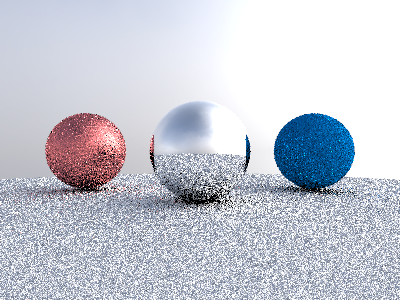
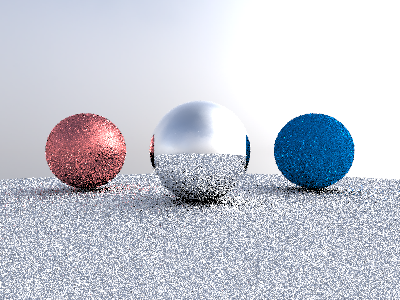
Added more data and corrected code

diff --git a/render.py b/render.py
@@ -58,9 +58,6 @@ def path_trace_row(frame, progress, start_y, step, width, height, scene, paths, 
             # start tracing rays
             color = color + trace(scene, sampler, cam_ray, paths[path_index])
             frame.accumulation[y * width + x] = frame.accumulation[y * width + x] + color
-            #color = linear_to_srgb(frame.accumulation[y * width + x] / (sample_idx + 1))
-            # set image
-            #frame.display_img[y][x] = np.array([color[0], color[1], color[2]])
         progress[y] = 1
         print("Progress: %.2f%% [Sample: %i/%i]" % ((np.clip((np.sum(progress) / height), 0.0, 1.0) * 100), (sample_idx + 1), samples))
 
@@ -70,67 +67,44 @@ def threaded_path_trace(frame, sky, width, height, scene, samples, threads):
     paths = [None] * width * height
     # record start time
     start = time.perf_counter()
-    # figure for displaying image during render
-    '''
-    plt.ion()
-    fig, ax = plt.subplots()
-    '''
     for sample_idx in range(0, samples, 1):
         progress = [0] * height
         # start threads
         for i in range(step):
             threads[i] = threading.Thread(target=path_trace_row, args=(frame, progress, i, step, width, height, scene, paths, sample_idx, samples))
             threads[i].start()
-        # display image interactively
-        '''
-        while(np.sum(progress) < height):
-            image_display = ax.imshow(frame.display_img, extent=[0, width, 0, height])
-            fig.canvas.flush_events()
-            plt.show()
-            time.sleep(0.5)
-        '''
         # wait for all threads to finish
         for i in range(step):
             threads[i].join()
-        # copy results
-        for y in range(0, height):
-            rgb_row = ()
-            for x in range(width):
-                color = frame.accumulation[y * width + x] / (sample_idx + 1)
-                color = linear_to_srgb(color)
-                rgb_row = rgb_row + (color[0], color[1], color[2])
-            frame.img[y] = rgb_row
-        # save image
-        folder = "./results/" + sky + "_{}/"
-        file = "./results/" + sky + "_{}/{}_{}_spp.png"
-        if(scene.sampling == Sampling.IMPORTANCE_SAMPLING):
-            folder = folder.format("is")
-            file = file.format("is", "is", (sample_idx + 1))
-        else:
-            folder = folder.format("sir")
-            file = file.format("sir", "sir", (sample_idx + 1))
+    # copy results
+    for y in range(0, height):
+        rgb_row = ()
+        for x in range(width):
+            color = frame.accumulation[y * width + x] / (samples)
+            color = linear_to_srgb(color)
+            rgb_row = rgb_row + (color[0], color[1], color[2])
+        frame.img[y] = rgb_row
+    # save image
+    folder = "./results/" + sky + "_{}/"
+    file = "./results/" + sky + "_{}/{}_{}_spp.png"
+    if(scene.sampling == Sampling.IMPORTANCE_SAMPLING):
+        folder = folder.format("is")
+        file = file.format("is", "is", (samples))
+    else:
+        folder = folder.format("sir")
+        file = file.format("sir", "sir", (samples))
 
-        isExist = os.path.exists(folder)
-        if isExist == False:
-            os.makedirs(folder)
-        with open(file, 'wb') as f:
-            w = png.Writer(width, height, greyscale=False, gamma=1.0)
-            w.write(f, frame.img)
-            print("Image saved")
-    
+    isExist = os.path.exists(folder)
+    if isExist == False:
+        os.makedirs(folder)
+    with open(file, 'wb') as f:
+        w = png.Writer(width, height, greyscale=False, gamma=1.0)
+        w.write(f, frame.img)
+        print("Image saved")
     # record end time
     end = time.perf_counter()
     duration = timedelta(seconds=end-start)
     print("Render completed in: ", duration)
-
-    # display finished image
-    '''
-    image_display = ax.imshow(frame.display_img, extent=[0, width, 0, height])
-    fig.canvas.flush_events()
-    plt.show()
-    plt.show(block=True)
-    '''
-    print("Finished rendering - saving image")
 
 def run_mcmc(frame, sampler, scene, b):
     radiance_record = radiance(frame, sampler, scene, False)
@@ -171,12 +145,6 @@ def threaded_mlt(frame, sky, width, height, scene, samples, threads):
     paths = [None] * width * height
     # record start time
     start = time.perf_counter()
-    # figure for displaying image during render
-    '''
-    plt.ion()
-    fig, ax = plt.subplots()
-    '''
-    sample_idx = 0
     # set fixed seed for bootstrap
     random.seed(1)
     bootstrap_count = 100000
@@ -234,7 +202,6 @@ def threaded_mlt(frame, sky, width, height, scene, samples, threads):
         rgb_row = ()
         for x in range(width):
             color = linear_to_srgb(frame.accumulation[y * width + x] / (samples))
-            #frame.display_img[y][x] = np.array([color[0], color[1], color[2]])
             rgb_row = rgb_row + (color[0], color[1], color[2])
         frame.img[y]=rgb_row
 
@@ -260,15 +227,6 @@ def threaded_mlt(frame, sky, width, height, scene, samples, threads):
     end = time.perf_counter()
     duration = timedelta(seconds=end-start)
     print("Render completed in: ", duration)
-
-    # display finished image
-    '''
-    image_display = ax.imshow(frame.display_img, extent=[0, width, 0, height])
-    fig.canvas.flush_events()
-    plt.show()
-    plt.show(block=True)
-    '''
-    print("Finished rendering - saving image")
 
 def render(threads, sky, samples, sample_type, mlt, max_bounce):
     # read sky
@@ -296,12 +254,9 @@ def render(threads, sky, samples, sample_type, mlt, max_bounce):
     scene = Scene(sample_algorithm, width, height, sky_image, max_bounce)
     # path trace
     if(mlt):
-        for i in range(1, samples + 1):
-            # initialize image
-            frame = Frame(width, height)
-            threaded_mlt(frame, sky, width, height, scene, i, threads)
-        #frame = Frame(width, height)
-        #threaded_mlt(frame, sky, width, height, scene, samples, threads)
+        # initialize image
+        frame = Frame(width, height)
+        threaded_mlt(frame, sky, width, height, scene, samples, threads)
     else:
         # initialize image
         frame = Frame(width, height)

diff --git a/frame.py b/frame.py
@@ -5,8 +5,6 @@ class Frame:
         # initialize image
         self.img = []
         self.accumulation = []
-        # display buffer
-        self.display_img = np.zeros((height, width, 3), dtype=np.uint8)
         for y in range(height):
             rgb_row = ()
             for x in range(width):

diff --git a/README.md b/README.md
@@ -34,7 +34,7 @@ All the possible options are documented in:
 python ./output.py -h
 ```
 
-The list of images for environmment background for the option i.e., `--sky="belfast_sunset_puresky_1k"` available (credits to Polyhaven):
+The list of images for environmment background for the option i.e., `--sky="belfast_sunset_puresky_1k"` available (credits to [Polyhaven](https://polyhaven.com/)):
 ```
 belfast_sunset_puresky_1k
 drakensberg_solitary_mountain_puresky_1k
